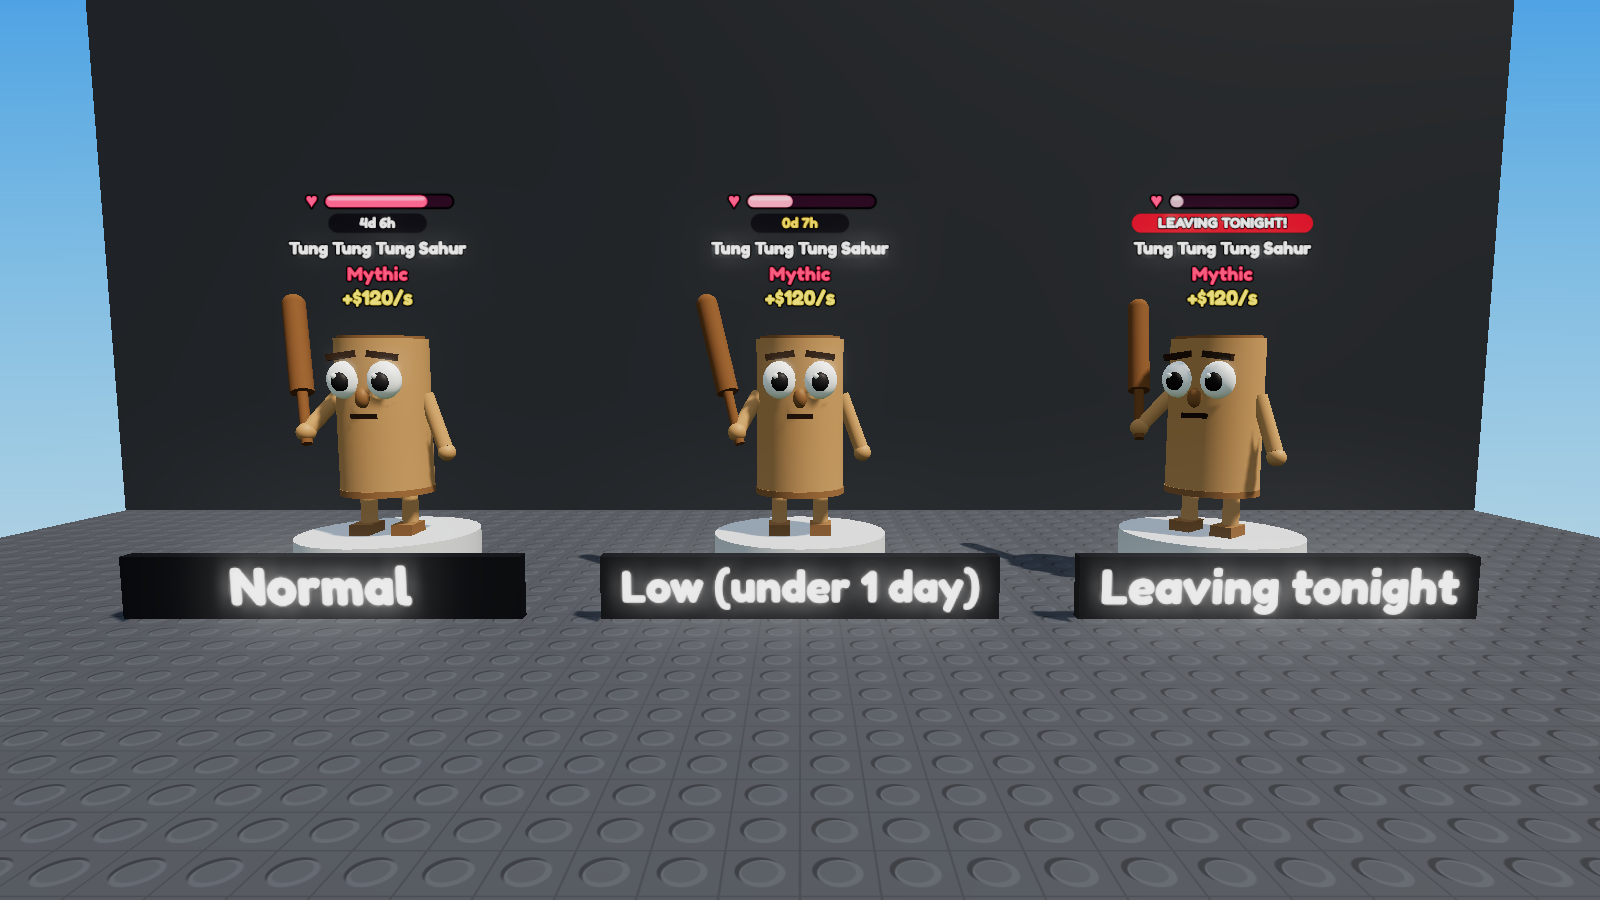
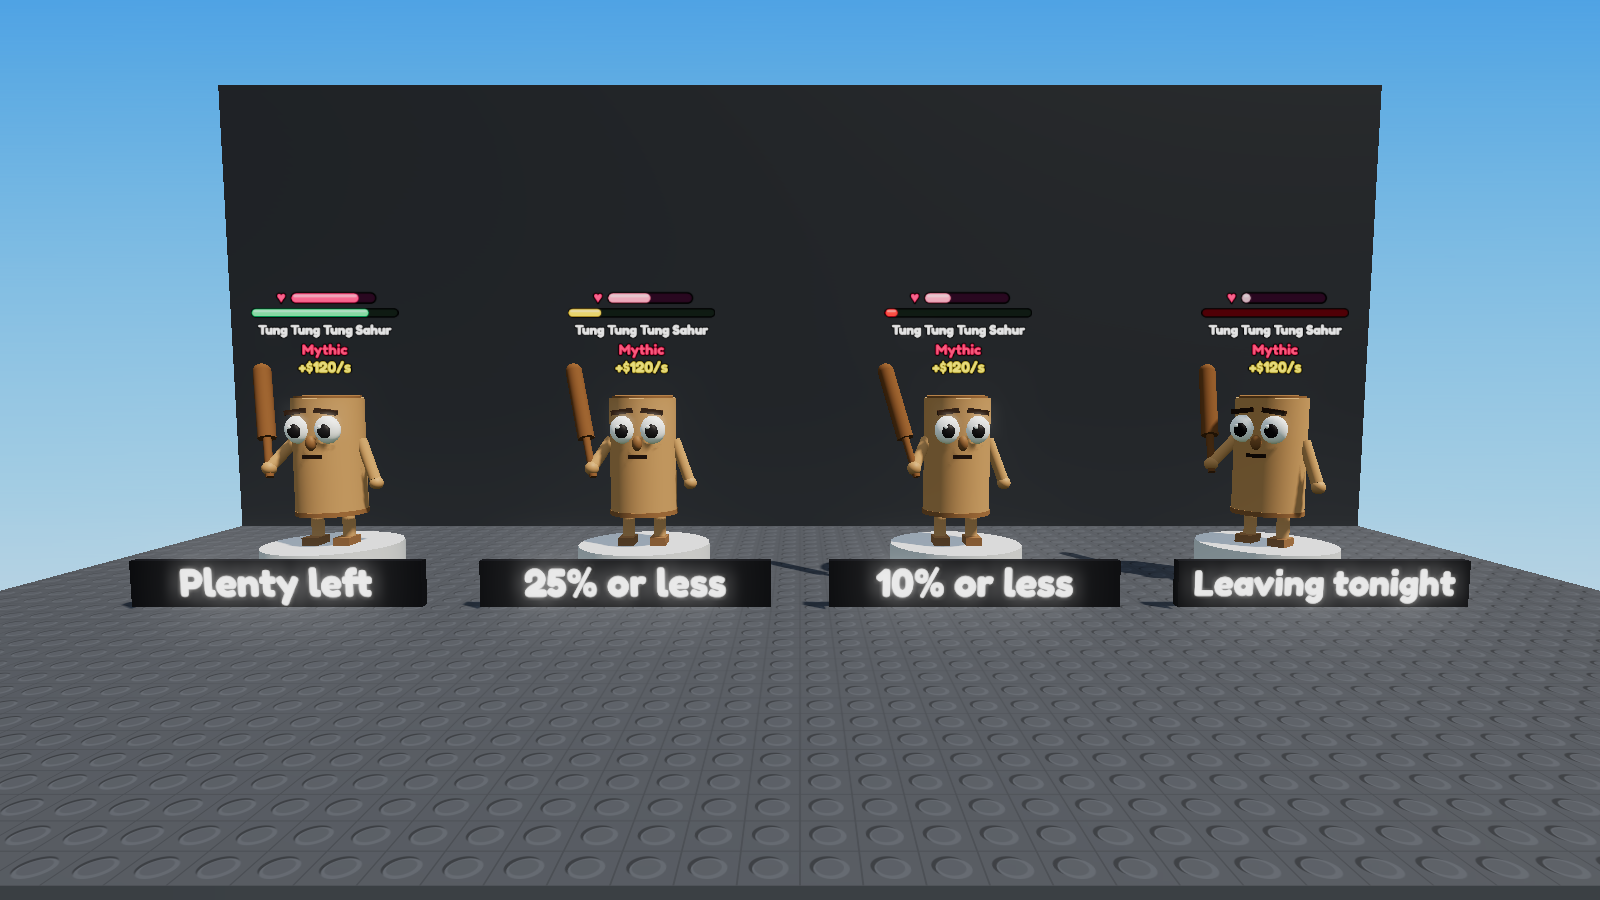
Design: runaway timer as one long draining bar (green -> yellow at 25% -> red at 10%)
Owner feedback on the overlay mockup: no text, just a long bar showing the
timer left since the last feed. Updated the in-world overlay mockups, the
nursery UI and DESIGN_V3.md; added a close-up crop.

Claude-Session: https://claude.ai/code/session_01FwRruUCtMU9EALDabTDmkX

diff --git a/tools/mockups/v3/ui.js b/tools/mockups/v3/ui.js
@@ -171,7 +171,8 @@ function nursery() {
 				${stageTrack("Baby", 24, 40)}
 				<div class="owner">
 					<div class="orow"><span class="olabel">♥ Loyalty</span><div class="bar love"><div style="width:55%"></div></div><span class="oval">55 · ×1.1 $/s</span></div>
-					<div class="orow"><span class="olabel">⏱ Runs away in</span><span class="timer">2d 0h</span><span class="muted small-note">Only you can see this</span></div>
+					<div class="orow"><span class="olabel">Runaway timer</span><div class="bar timer-bar"><div style="width:100%"></div></div></div>
+					<div class="orow"><span class="muted small-note">Only you can see these. The timer bar drains over time: yellow at 25%, red at 10%. Feeding refills it.</span></div>
 				</div>
 				<div class="feed">
 					<div class="pick">${icon("slice")}<div><b>Pizza Slice</b><span class="muted">You have 12</span></div><span class="caret">▾</span></div>
@@ -219,7 +220,7 @@ const NOTES = {
 	nursery: [
 		["NUR-1", "Six incubator slots: 3 free once the nursery is unlocked, 3 more from game-pass tiers (99 / 149 / 199 R$, proposed)."],
 		["NUR-2", "Growth: Baby → Teen at 40 pts, Teen → Adult at 100 more. Size ×0.5 / ×0.75 / ×1, income ×0.4 / ×0.7 / ×1 (proposed, all in Config)."],
-		["NUR-3", "Loyalty and the runaway timer are owner-only. The server sends them only to the owner; other players' panels have neither."],
+		["NUR-3", "The runaway timer is one long bar (no numbers): full after feeding, drains with in-game time, yellow at 25%, red at 10%, empty = leaving tonight. Loyalty and the timer are owner-only. Other players' panels have neither."],
 		["NUR-4", "Feed ×N uses any food you own; the gain chips preview the total before you feed."],
 		["Q-N1", "Do growth points from food also come with a slow passive trickle over time, or food only?"],
 	],

diff --git a/tools/mockups/v3/ui.html b/tools/mockups/v3/ui.html
@@ -93,6 +93,9 @@ body { margin: 0; width: 2000px; height: 900px; background: #F2EEE6; font-family
 .bar.small { height: 16px; }
 .bar.grow > div { background: var(--green); }
 .bar.love > div { background: var(--pink); }
+.bar.timer-bar { height: 18px; background: #1E2A22; }
+.bar.timer-bar > div { background: var(--green); }
+.small-note { margin-left: 0; font-size: 13px; }
 .bar span { position: absolute; inset: 0; display: flex; align-items: center; justify-content: center; font: 800 13px Nunito; }
 .hint { margin-top: 10px; font: 700 15px Nunito; color: #6B7285; }
 .right { flex: 1; background: #fff; border: 4px solid var(--ink); border-radius: 22px; padding: 14px 18px; display: flex; flex-direction: column; gap: 10px; }
@@ -115,7 +118,6 @@ body { margin: 0; width: 2000px; height: 900px; background: #F2EEE6; font-family
 .orow .bar { flex: 1; }
 .oval { font: 800 14px Nunito; }
 .timer { background: #14121C; color: #fff; border-radius: 12px; padding: 0 12px; font: 700 18px Fredoka; }
-.small-note { margin-left: auto; font-size: 13px; }
 .feed { display: flex; gap: 10px; align-items: center; }
 .pick { display: flex; align-items: center; gap: 6px; border: 3px solid var(--ink); border-radius: 14px; padding: 2px 10px 2px 2px; background: #fff; font: 700 16px Fredoka; }
 .pick .icon { width: 44px; height: 44px; }

diff --git a/tools/preview/world.js b/tools/preview/world.js
@@ -137,7 +137,9 @@ function drawBar(g, l, cw, y, lh) {
 	g.fillStyle = css(l.back);
 	roundRect(g, bx + inset, y + pad + inset, bw - inset * 2, lh - (pad + inset) * 2, (lh - (pad + inset) * 2) / 2);
 	g.fill();
-	const fw = Math.max(lh * 0.3, (bw - inset * 2) * Math.max(0, Math.min(1, l.value)));
+	const v = Math.max(0, Math.min(1, l.value));
+	if (v <= 0) return; // empty bar: just the track
+	const fw = Math.max(lh * 0.3, (bw - inset * 2) * v);
 	g.fillStyle = css(l.color);
 	roundRect(g, bx + inset, y + pad + inset, fw, lh - (pad + inset) * 2, (lh - (pad + inset) * 2) / 2);
 	g.fill();

diff --git a/docs/DESIGN_V3.md b/docs/DESIGN_V3.md
@@ -13,7 +13,7 @@ Parts helpers and character models through the world renderer. UI screens come f
 | `design-hub.png`, `design-hub-close.png`, `design-hub-night.png` | the shared carpet loop, central portal, Egg Shop + Food Shop, leaderboards, event stage, trade zone, hangout |
 | `design-base-nursery-unlocked.png`, `design-nursery-interior.png` | your base with the nursery open |
 | `design-base-nursery-locked.png` | a neighbour's base with the nursery locked |
-| `design-owner-overlay.png` / `-others.png` | the owner's loyalty bar + runaway timer (normal / low / leaving tonight) vs what other players see |
+| `design-owner-overlay.png` / `-others.png`, `design-timer-closeup.png` | the owner's loyalty bar + runaway timer bar (plenty / ≤25% / ≤10% / leaving tonight) vs what other players see |
 | `design-base-owner-view.png` | the overlay in context, with the tighter nameplates |
 | `ui-food-feasts.png`, `ui-food-premium.png` | Food Shop UI |
 | `ui-nursery.png`, `ui-nursery-locked.png` | Nursery UI + unlock dialog |
@@ -55,7 +55,10 @@ and tells the owner which brainrot is being carried (the Q8 rule).
   - 1 in-game day = one full Day+Dusk+Night+Vote cycle ≈ 12.8 min at current cycle lengths.
   - At 0 the brainrot is "leaving tonight" and runs at mid-night.
   - Catch it (touch/BONK) → it goes home with −10 loyalty and the timer reset to the 2-day minimum.
-- **Overlay colours:** white ≥ 1 day, yellow < 1 day, red pill "LEAVING TONIGHT!".
+- **Overlay (owner feedback):** the timer is one long bar with no text.
+  - It shows the fraction left since the last feed, so feeding refills it.
+  - Green, then yellow at ≤ 25%, red at ≤ 10%. An empty track means "leaving tonight" (and the brainrot fidgets).
+  - The loyalty bar (with a heart) sits above it.
 - **Stolen brainrots:**
   - They keep their loyalty to the original owner. At ≥ `RETURN_HOME_THRESHOLD` = 70 they run home at
     mid-night, and the thief can catch them on the way.
